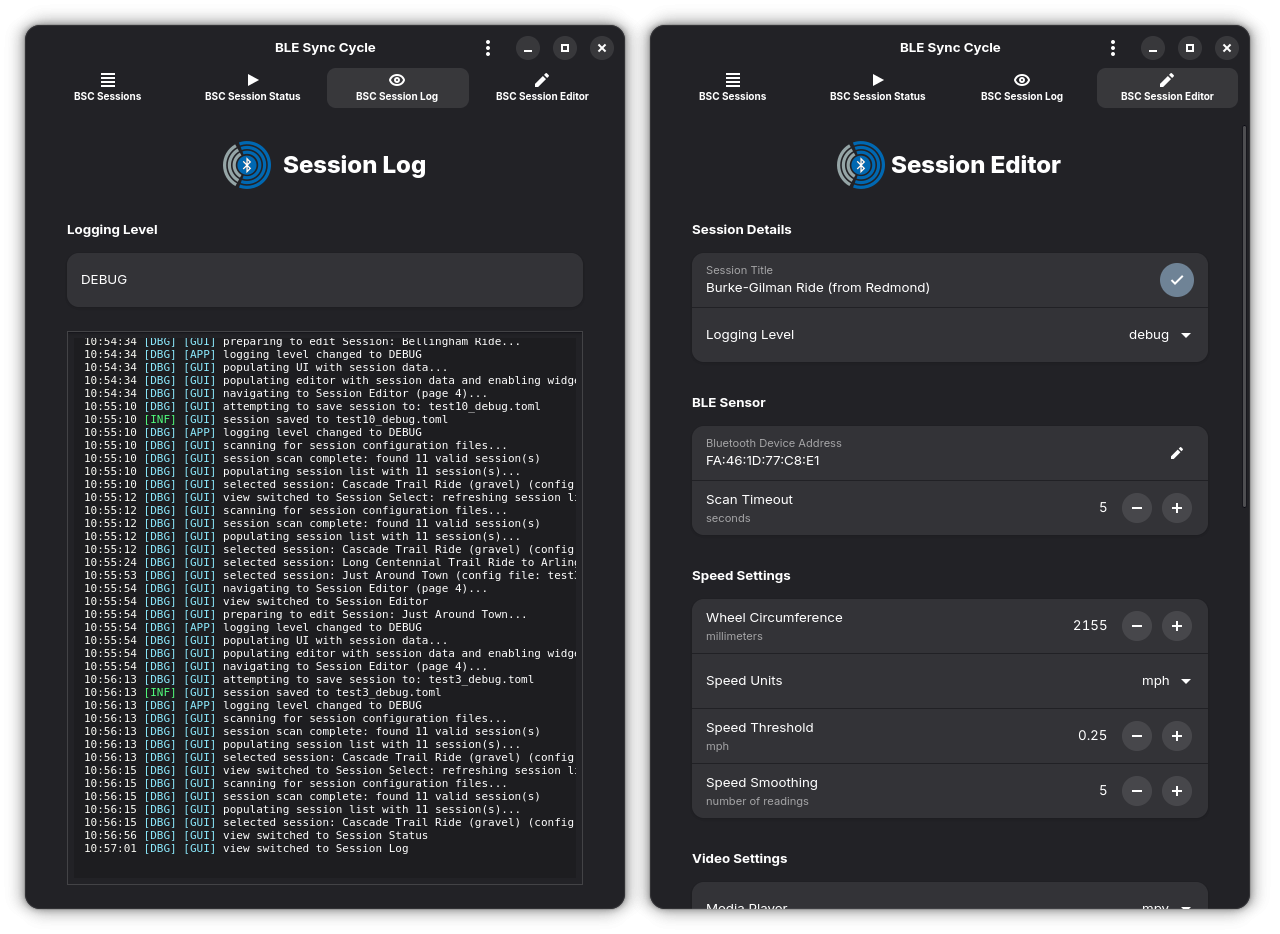
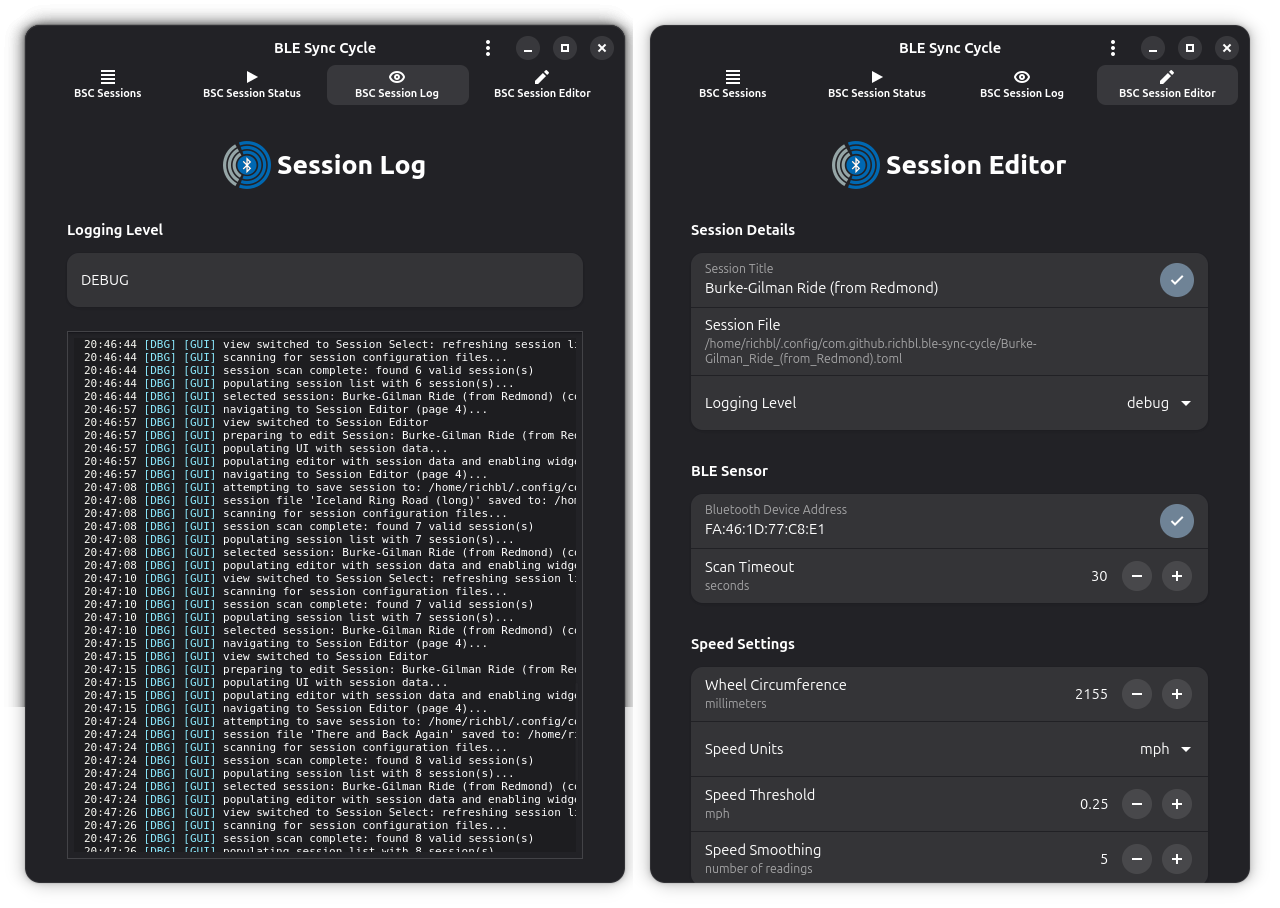
docs(app): :bookmark: Updated README/wiki content to reflect new BSC features and version rev (v0.63.0)

diff --git a/ui/ui_session_select.go b/ui/ui_session_select.go
@@ -245,8 +245,8 @@ func createDefaultConfig(videoPath string) *config.Config {
 			SeekToPosition:    "00:00:00",
 			AutoResume:        false,
 			WindowScaleFactor: 1.0,
-			UpdateIntervalSec: 1.0,
-			SpeedMultiplier:   1.0,
+			UpdateIntervalSec: 0.25,
+			SpeedMultiplier:   0.8,
 			OnScreenDisplay: config.VideoOSDConfig{
 				DisplayCycleSpeed:    true,
 				DisplayPlaybackSpeed: true,

diff --git a/internal/config/config_version.go b/internal/config/config_version.go
@@ -3,7 +3,7 @@ package config
 // Application name and version information
 const (
 	appName    = "BLE Sync Cycle"
-	appVersion = "v0.62.0"
+	appVersion = "v0.63.0"
 )
 
 // GetVersion returns the current application version

diff --git a/README.md b/README.md
@@ -20,10 +20,10 @@
 <img width="850" alt="Screenshot showing BSC GUI" src="https://raw.githubusercontent.com/richbl/go-ble-sync-cycle/refs/heads/main/.github/assets/trail_gui_hd.png">
 </p>
 
-Here's a short (~30 seconds) YouTube video demonstrating how BLE Sync Cycle works:
+Here's a short (~60 seconds) YouTube video demonstrating how BLE Sync Cycle works:
 
 <p align="center">
-  <a href="https://youtu.be/oZqs__8KdnI"><img width="850" alt="Screenshot showing YouTube thumbnail" src="https://raw.githubusercontent.com/richbl/go-ble-sync-cycle/refs/heads/main/.github/assets/bsc_video_thumbnail.png"></a>
+  <a href="https://youtu.be/WjaNG7kHTqI"><img width="850" alt="Screenshot showing YouTube thumbnail" src="https://raw.githubusercontent.com/richbl/go-ble-sync-cycle/refs/heads/main/.github/assets/bsc_video_thumbnail.png"></a>
 </p>
 <!-- markdownlint-enable MD033 -->
 
@@ -51,9 +51,9 @@ Here's a short (~30 seconds) YouTube video demonstrating how BLE Sync Cycle work
 * Choice of running modes:
     * GUI Mode: a modern GTK4/Adwaita design with interactive graphical support for:
         * Cycling session selection
-        * Session status (including cycling speed and session time remaining), and video playback
+        * Session status (including cycling speed, ride time, and session time remaining), and video playback
         * Session logging
-        * BSC session creation and management
+        * BSC session creation, editing, and management
 
     * CLI Mode: a simple command-line interface for real-time application status with minimal operational overhead
         * Application flags to override configuration file settings:
@@ -63,7 +63,7 @@ Here's a short (~30 seconds) YouTube video demonstrating how BLE Sync Cycle work
 
 * Configurable logging levels (debug, info, warn, error)
 
-* The battery level of the BLE sensor is checked and displayed on every session start, ensuring that users have sufficient battery life for their training session
+* The battery level of the BLE sensor is checked and displayed on every session start, ensuring that users have sufficient battery life for an accurate training session
 
 * Graceful handling of connection interrupts and system signals for a clean shutdown
 

diff --git a/wiki/Installation:-Installing-the-Application.md b/wiki/Installation:-Installing-the-Application.md
@@ -25,10 +25,10 @@ A successful installation will result in the following output:
 
 ```console
 18:23:43 [INF] [APP] ---------------------------------------------------
-18:23:43 [INF] [APP] BLE Sync Cycle v0.62.0 starting...
+18:23:43 [INF] [APP] BLE Sync Cycle v0.63.0 starting...
 18:23:43 [INF] [APP] ---------------------------------------------------
 
-Installing the following BLE Sync Cycle v0.62.0 files...
+Installing the following BLE Sync Cycle v0.63.0 files...
 
 Binary:       /home/richbl/.local/bin/ble-sync-cycle
 Desktop file: /home/richbl/.local/share/applications/com.github.richbl.ble-sync-cycle.desktop
@@ -37,7 +37,7 @@ Icon:         /home/richbl/.local/share/icons/hicolor/scalable/apps/com.github.r
 Installation completed successfully.
 
 18:23:43 [INF] [APP] ---------------------------------------------------
-18:23:43 [INF] [APP] BLE Sync Cycle v0.62.0 shutdown complete. Goodbye
+18:23:43 [INF] [APP] BLE Sync Cycle v0.63.0 shutdown complete. Goodbye
 18:23:43 [INF] [APP] ---------------------------------------------------
 ```
 
@@ -53,10 +53,10 @@ A successful uninstallation will result in the following output:
 
 ```console
 18:24:03 [INF] [APP] ---------------------------------------------------
-18:24:03 [INF] [APP] BLE Sync Cycle v0.62.0 starting...
+18:24:03 [INF] [APP] BLE Sync Cycle v0.63.0 starting...
 18:24:03 [INF] [APP] ---------------------------------------------------
 
-Uninstalling the following BLE Sync Cycle v0.62.0 files...
+Uninstalling the following BLE Sync Cycle v0.63.0 files...
 
 Binary:       /home/richbl/.local/bin/ble-sync-cycle
 Desktop file: /home/richbl/.local/share/applications/com.github.richbl.ble-sync-cycle.desktop
@@ -65,5 +65,5 @@ Icon:         /home/richbl/.local/share/icons/hicolor/scalable/apps/com.github.r
 Uninstallation completed successfully.
 
 18:24:03 [INF] [APP] ---------------------------------------------------
-18:24:03 [INF] [APP] BLE Sync Cycle v0.62.0 shutdown complete. Goodbye
+18:24:03 [INF] [APP] BLE Sync Cycle v0.63.0 shutdown complete. Goodbye
 18:24:03 [INF] [APP] ---------------------------------------------------

diff --git a/wiki/Basic-Usage:-GUI-Mode.md b/wiki/Basic-Usage:-GUI-Mode.md
@@ -95,7 +95,9 @@ The **BSC Session Editor** page is used to manage BSC sessions. From this page, 
 
 #### The Session Details Section
 
-- The **Session Details** section displays the BSC session title and the logging level. Both fields are editable
+- The **Session Title** section displays the current BSC session title (editable)
+- The **Session File** section displays the full path to the current BSC session file
+- The **Logging Level** section displays the current logging level for this session (editable)
 
 #### The BLE Sensor Section
 
@@ -185,6 +187,6 @@ If you want to save a new BSC session, click the **Save Session As...** button a
 
 ### Deleting BSC Sessions
 
-In the event a BSC session needs to be removed from the list of sessions, you can click the **Delete Session** to permanently remove the session currently in the Session Editor. 
+In the event a BSC session needs to be removed from the list of sessions, you can click the **Delete Session** to permanently remove the session currently in the Session Editor.
 
 > Note that you will not be permitted to delete an actively-running BSC session. You must first stop that running session, and only then can you safely delete it.

diff --git a/wiki/BLE-Sync-Cycle:-Features.md b/wiki/BLE-Sync-Cycle:-Features.md
@@ -27,9 +27,9 @@
 * Choice of running modes:
     * GUI Mode: a modern GTK4/Adwaita design with interactive graphical support for:
         * Cycling session selection
-        * Session status (including cycling speed and session time remaining), and video playback
+        * Session status (including cycling speed, ride time, and session time remaining), and video playback
         * Session logging
-        * BSC session creation and management
+        * BSC session creation, editing, and management
 
     * CLI Mode: a simple command-line interface for real-time application status with minimal operational overhead
         * Application flags to override configuration file settings:
@@ -39,7 +39,7 @@
 
 * Configurable logging levels (debug, info, warn, error)
 
-* The battery level of the BLE sensor is checked and displayed on every session start, ensuring that users have sufficient battery life for their training session
+* The battery level of the BLE sensor is checked and displayed on every session start, ensuring that users have sufficient battery life for an accurate training session
 
 * Graceful handling of connection interrupts and system signals for a clean shutdown
 

diff --git a/wiki/Basic-Usage:-CLI-Mode.md b/wiki/Basic-Usage:-CLI-Mode.md
@@ -29,7 +29,7 @@ Note that the output below was generated when `logging_level` is set to `debug` 
 
 ```console
 14:40:40 [INF] [APP] ---------------------------------------------------
-14:40:40 [INF] [APP] BLE Sync Cycle v0.62.0 starting...
+14:40:40 [INF] [APP] BLE Sync Cycle v0.63.0 starting...
 14:40:40 [INF] [APP] ---------------------------------------------------
 14:40:40 [DBG] [APP] running in CLI mode
 14:40:40 [DBG] [APP] session startup sequence starting...
@@ -195,6 +195,6 @@ Finally, let's watch when the user stops the **BLE Sync Cycle** application...
 14:45:08 [DBG] [APP] ShutdownManager object (id:0001) shutdown complete
 14:45:08 [DBG] [APP] ShutdownManager object (id:0001) shutdown complete
 14:45:08 [INF] [APP] ---------------------------------------------------
-14:45:08 [INF] [APP] BLE Sync Cycle v0.62.0 shutdown complete. Goodbye
+14:45:08 [INF] [APP] BLE Sync Cycle v0.63.0 shutdown complete. Goodbye
 14:45:08 [INF] [APP] ---------------------------------------------------
 ```

diff --git a/wiki/Home.md b/wiki/Home.md
@@ -16,9 +16,9 @@
 <img width="850" alt="Screenshot showing BSC GUI" src="https://raw.githubusercontent.com/richbl/go-ble-sync-cycle/refs/heads/main/.github/assets/trail_gui_hd.png">
 </p>
 
-Here's a short (~30 seconds) YouTube video demonstrating how BLE Sync Cycle works:
+Here's a short (~60 seconds) YouTube video demonstrating how BLE Sync Cycle works:
 
 <p align="center">
-  <a href="https://youtu.be/oZqs__8KdnI"><img width="850" alt="Screenshot showing YouTube thumbnail" src="https://raw.githubusercontent.com/richbl/go-ble-sync-cycle/refs/heads/main/.github/assets/bsc_video_thumbnail.png"></a>
+  <a href="https://youtu.be/WjaNG7kHTqI"><img width="850" alt="Screenshot showing YouTube thumbnail" src="https://raw.githubusercontent.com/richbl/go-ble-sync-cycle/refs/heads/main/.github/assets/bsc_video_thumbnail.png"></a>
 </p>
 <!-- markdownlint-enable MD033 -->

diff --git a/wiki/Basic-Usage:-Using-the-Command-Line-Options.md b/wiki/Basic-Usage:-Using-the-Command-Line-Options.md
@@ -78,7 +78,7 @@ The output of that command is as follows:
 
 ```console
 18:25:46 [INF] [APP] ---------------------------------------------------
-18:25:46 [INF] [APP] BLE Sync Cycle v0.62.0 starting...
+18:25:46 [INF] [APP] BLE Sync Cycle v0.63.0 starting...
 18:25:46 [INF] [APP] ---------------------------------------------------
 
 Usage: ble-sync-cycle [flags]
@@ -97,6 +97,6 @@ The following flag is available when running in GUI mode:
   -l, --log-console  Enable logging to the console
 
 18:25:46 [INF] [APP] ---------------------------------------------------
-18:25:46 [INF] [APP] BLE Sync Cycle v0.62.0 shutdown complete. Goodbye
+18:25:46 [INF] [APP] BLE Sync Cycle v0.63.0 shutdown complete. Goodbye
 18:25:46 [INF] [APP] ---------------------------------------------------
 ```

diff --git a/wiki/Basic-Usage:-Running-the-Application.md b/wiki/Basic-Usage:-Running-the-Application.md
@@ -13,6 +13,8 @@ In GUI (graphical user interface) mode, the application is started and run like 
 
 - Easy to start (available from the desktop environment's application menu)
 - Easy to visually track video progression and real-time cycling metrics during a cycling session
+    - Real-time presentation of session metrics, including ride time
+    - Optional auto-resume feature allows you to continue a session from where you left off
 - Real-time logging is available directly within the application interface
 - Easy to edit and manage multiple BSC sessions
 

diff --git a/wiki/Basic-Usage:-Anatomy-of-a-BSC-TOML-File.md b/wiki/Basic-Usage:-Anatomy-of-a-BSC-TOML-File.md
@@ -18,7 +18,7 @@ The default `config.toml` file is shown below:
 
 ```toml
 # BLE Sync Cycle Configuration
-# v0.62.0
+# v0.63.0
 
 [app]
   session_title = "Session Title" # Short description of the current cycling session (0-200 characters, excluding ", &, and <)
